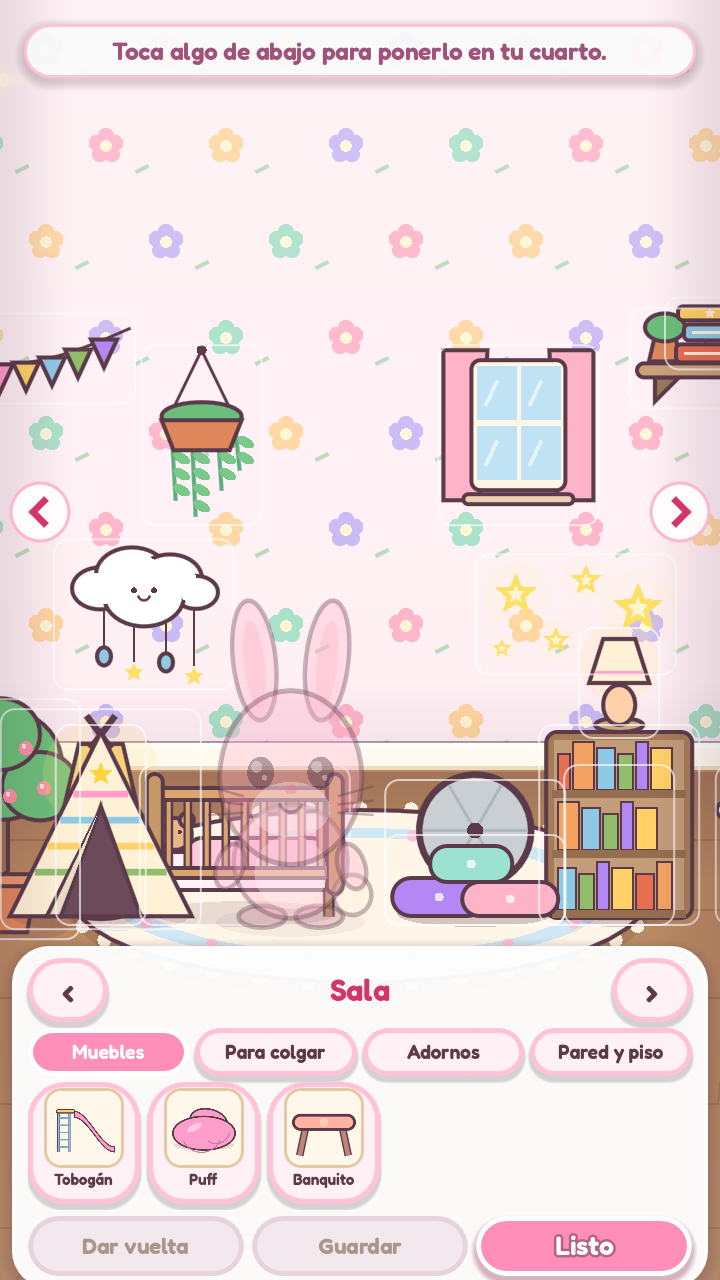
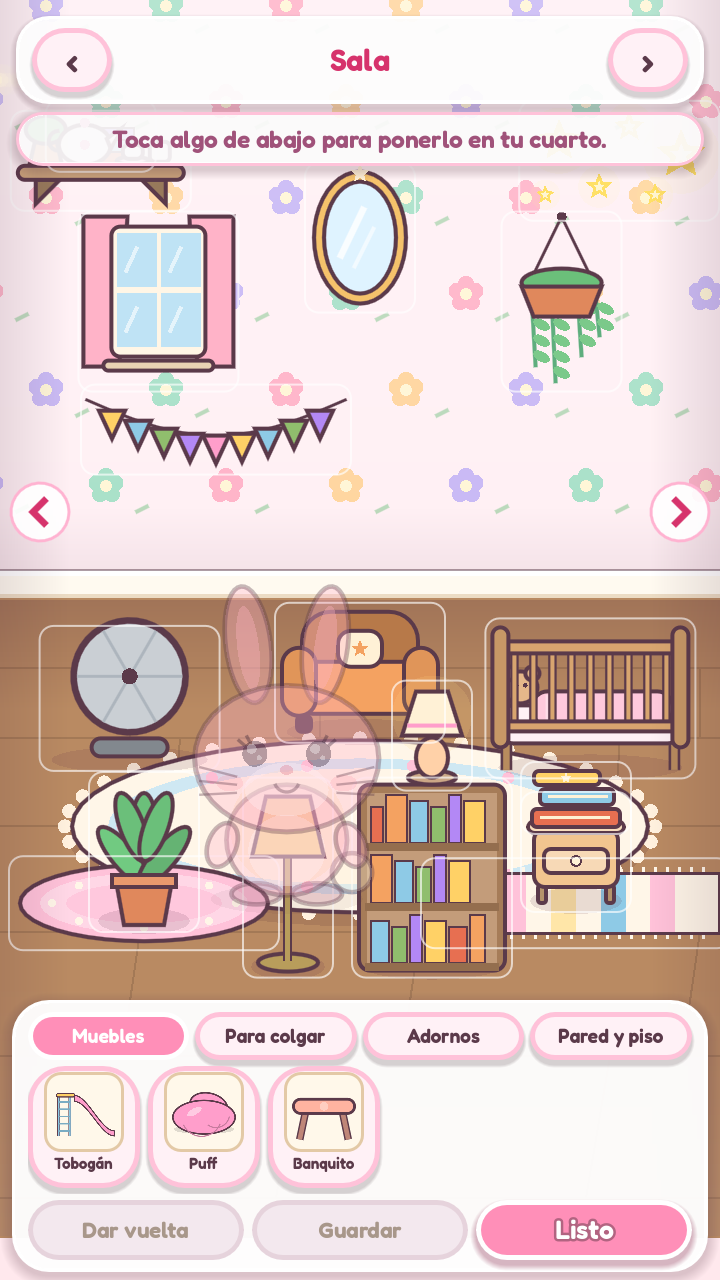
Mas lugar para decorar: cuartos de 3 pantallas y piso mas profundo
- El piso empieza al 50 % del alto: muebles en dos filas, hasta la barra de abajo.
- Habitaciones de 3 pantallas; partidas viejas y tarjetas de amigos se acomodan solas (Rooms.migrate_entry).
- Decorar: habitacion y ayuda arriba, panel mas bajito y el cuarto sube un poco.
- Alfombras adelante, muebles nuevos primero contra la pared. Test nuevo: test_room_space.

diff --git a/HANDOFF.md b/HANDOFF.md
@@ -118,6 +118,8 @@ Cada uno suma su habilidad (`PomponSkills.GAME_SKILL`), cuenta como juego favori
 
 **Menos texto** (16/11/2026; capturas antes/después en `docs/capturas/menos_texto/`): la casa muestra **solo íconos** arriba (Menú, Misiones, Vecinos, Trabajo, Diario) y en la solapa Pompon (Comer, Beber, Bañar, Caricia, Juegos): `ActionButton.show_label = false` (el nombre sigue en `caption`, que usan el tutorial y los tests, y en `tooltip_text`). La tarjeta dice solo el nombre con el símbolo de nena/nene (especie, personalidad, código y "Día X de N" quedan en la ficha). El cuadrito de "qué hace" aparece 5 s cuando cambia (`ACTIVITY_SECONDS`) y nunca junto con un pensamiento; el globo de lo que dice se ajusta al texto y sale sobre su cabeza. Habitaciones cerradas: candado y el número de nivel. Comida: moneda + número, estrellita = nunca la probó, "?" = todavía duda (sin subtítulo). Tienda: sin etiqueta de categoría en cada tarjeta, relojito + hora para la tienda nueva, título solo con la etapa. Sacados: subtítulo del diario (y "Dijo/Pensó" en cada entrada), frase de minijuegos, "¡Hay vacantes!", frase de amigos de verdad, "La entrada trae pochoclos", "Ordenados" y "Termina el turno completo..." en la nota. Tutorial y avisos con frases más cortas. `test_locale._texts` también lee el `tooltip_text` de los botones de solo ícono. **Beber está dentro de Comer** (tarjeta "Agua" gratis, primera del menú, `home.gd` `_water_card` → `_on_action("Beber")`): abajo quedan 4 botones. **El Supermercado y el Museo no se muestran en el pueblo** hasta que abran (`town.gd` `_build`; el código de "abre pronto" sigue).
 
+**Más lugar para decorar** (16/11/2026): las habitaciones son de **3 pantallas** (`Rooms.WORLD_SCREENS`) y el piso empieza al 50 % del alto (`RoomView.FLOOR_START`, antes 60 %): entran muebles en dos filas y llegan hasta la barra de abajo (`BOTTOM_RESERVE` 250). Lo nuevo va primero contra la pared y las alfombras adelante (`GameState.FLOOR_SPOTS`, `place_item`). Partidas viejas y tarjetas de amigos con el juego viejo se acomodan solas con `Rooms.migrate_entry` (`room_layout` 3 = `Rooms.LAYOUT`; la tarjeta de amigos manda `"layout"`): lo decorado queda en el medio del cuarto y a la misma distancia de la pared. En Decorar, la habitación (‹ Sala ›) y el cartel de ayuda van arriba (`_edit_top`), el panel de abajo es más bajito y el cuarto sube 44 px (`EDIT_LIFT`) para ver el piso de adelante. Test: `test_room_space`.
+
 **Finales de línea**: los `.gd` deben quedar en LF. Si se edita con Python en Windows, leer/escribir en binario: con CRLF los textos multilínea muestran una línea vacía de más.
 
 **Flechas guía** (`GuideArrow`, con `set_targets` recorre varios botones): mientras `GameState.job_guide_on()` (nunca trabajó, o el huevo espera cuna y no alcanzan las monedas) señalan Trabajo en la casa, "Aplicar" en las ofertas y los tres "Trabajar" del aula (o "Ir a la Tienda" si ya alcanza). En el turno: si pasan 6 s sin ordenar, un dedito muestra cómo arrastrar un objeto (`SortField`); si un alumno levanta la mano y no lo tocás en 4 s, la flecha señala su examen; si no respondés en 8 s, recorre las respuestas (sin marcar la correcta). Una ayuda por vez.
